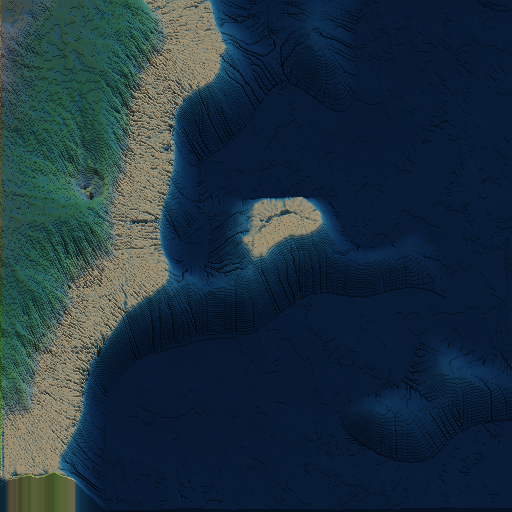
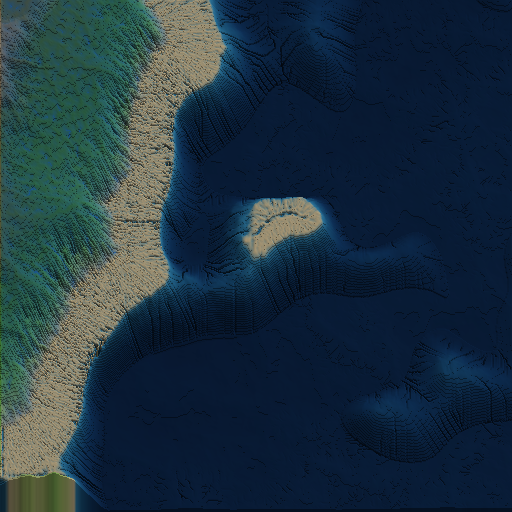
Add lake detection using priority-flood algorithm and river pools
- Implement proper depression filling using priority-flood algorithm
  to find terrain depressions where lakes would form
- Add river pool detection for flat areas with high flow accumulation
  (deltas, wetlands, floodplains where rivers naturally spread)
- Export separate river, lake, and combined water maps for debugging
- Lakes now blend with rivers in the final water visualization

Changed region(s): [[0.0, 0.0, 0.4375, 0.9375], [0.5, 0.375, 0.625, 0.4688]]

diff --git a/src/analysis/RiverMapper.cpp b/src/analysis/RiverMapper.cpp
@@ -133,42 +133,85 @@ void RiverMapper::findDepressions(const Heightmap& terrain,
 
     lakeMap.fill(0.0f);
 
-    // Find local minima (cells lower than all neighbors)
-    #ifdef WORLDGEN_USE_OPENMP
-    #pragma omp parallel for schedule(static)
-    #endif
-    for (size_t y = 1; y < h - 1; ++y) {
-        for (size_t x = 1; x < w - 1; ++x) {
+    // Use priority-flood algorithm to find depressions
+    // Start from edges and flood inward, marking cells that would be underwater
+
+    // Track which cells have been processed
+    std::vector<bool> processed(w * h, false);
+
+    // Track the "filled" height - water surface level at each cell
+    std::vector<float> filledHeight(w * h);
+    for (size_t i = 0; i < w * h; ++i) {
+        filledHeight[i] = data[i];
+    }
+
+    // Priority queue: process lowest cells first
+    // pair<height, index>
+    auto cmp = [](const std::pair<float, size_t>& a, const std::pair<float, size_t>& b) {
+        return a.first > b.first;  // Min-heap
+    };
+    std::priority_queue<std::pair<float, size_t>,
+                        std::vector<std::pair<float, size_t>>,
+                        decltype(cmp)> pq(cmp);
+
+    // Initialize with boundary cells (edges and ocean cells)
+    for (size_t y = 0; y < h; ++y) {
+        for (size_t x = 0; x < w; ++x) {
             size_t idx = y * w + x;
-            float center = data[idx];
 
-            if (center < m_config.seaLevel) continue;  // Skip ocean
+            // Add boundary cells and ocean cells to queue
+            bool isBoundary = (x == 0 || x == w - 1 || y == 0 || y == h - 1);
+            bool isOcean = data[idx] < m_config.seaLevel;
 
-            bool isMin = true;
-            float minNeighbor = center;
+            if (isBoundary || isOcean) {
+                pq.push({data[idx], idx});
+                processed[idx] = true;
+            }
+        }
+    }
 
-            for (int d = 0; d < 8; ++d) {
-                int nx = static_cast<int>(x) + DX[d];
-                int ny = static_cast<int>(y) + DY[d];
-                float nh = data[ny * w + nx];
+    // Process cells from lowest to highest
+    while (!pq.empty()) {
+        auto [height, idx] = pq.top();
+        pq.pop();
 
-                if (nh < center) {
-                    isMin = false;
-                    break;
-                }
-                minNeighbor = std::min(minNeighbor, nh);
+        size_t x = idx % w;
+        size_t y = idx / w;
+
+        // Check all 8 neighbors
+        for (int d = 0; d < 8; ++d) {
+            int nx = static_cast<int>(x) + DX[d];
+            int ny = static_cast<int>(y) + DY[d];
+
+            if (nx < 0 || nx >= static_cast<int>(w) ||
+                ny < 0 || ny >= static_cast<int>(h)) {
+                continue;
             }
 
-            if (isMin) {
-                // Depression depth = height to overflow
-                float lowestNeighbor = 1e9f;
-                for (int d = 0; d < 8; ++d) {
-                    int nx = static_cast<int>(x) + DX[d];
-                    int ny = static_cast<int>(y) + DY[d];
-                    lowestNeighbor = std::min(lowestNeighbor, data[ny * w + nx]);
-                }
-                lake[idx] = lowestNeighbor - center;
+            size_t nidx = ny * w + nx;
+            if (processed[nidx]) continue;
+
+            processed[nidx] = true;
+
+            float neighborHeight = data[nidx];
+
+            // If neighbor is lower than current water level, it's in a depression
+            if (neighborHeight < filledHeight[idx]) {
+                filledHeight[nidx] = filledHeight[idx];
+                // Lake depth = water surface - ground
+                lake[nidx] = filledHeight[idx] - neighborHeight;
+            } else {
+                filledHeight[nidx] = neighborHeight;
             }
+
+            pq.push({filledHeight[nidx], nidx});
+        }
+    }
+
+    // Only keep lakes above sea level (not ocean)
+    for (size_t i = 0; i < w * h; ++i) {
+        if (data[i] < m_config.seaLevel) {
+            lake[i] = 0.0f;
         }
     }
 }
@@ -280,7 +323,64 @@ std::unique_ptr<Heightmap> RiverMapper::generateLakeMap(const Heightmap& terrain
     const size_t h = terrain.height();
 
     auto lakeMap = std::make_unique<Heightmap>(w, h);
+
+    // First find true depressions
     findDepressions(terrain, *lakeMap);
+
+    // Also find "river pools" - flat areas with high flow accumulation
+    // These are places where rivers would naturally spread out: deltas, wetlands, floodplains
+
+    std::vector<int> flowDir(w * h);
+    Heightmap flowAcc(w, h);
+    calculateFlowDirections(terrain, flowDir);
+    calculateFlowAccumulation(terrain, flowDir, flowAcc);
+
+    const float* heightData = terrain.data();
+    const float* flowData = flowAcc.data();
+    float* lakeData = lakeMap->data();
+
+    float maxFlow = flowAcc.max();
+    if (maxFlow < 1.0f) maxFlow = 1.0f;
+
+    // High flow threshold for forming pools (top 1% of flow)
+    float poolFlowThreshold = maxFlow * 0.01f;
+
+    #ifdef WORLDGEN_USE_OPENMP
+    #pragma omp parallel for schedule(static)
+    #endif
+    for (size_t y = 2; y < h - 2; ++y) {
+        for (size_t x = 2; x < w - 2; ++x) {
+            size_t idx = y * w + x;
+
+            if (heightData[idx] < m_config.seaLevel) continue;  // Skip ocean
+
+            float flow = flowData[idx];
+            if (flow < poolFlowThreshold) continue;
+
+            // Calculate local gradient (steepness)
+            float centerH = heightData[idx];
+            float gradient = 0.0f;
+            for (int d = 0; d < 8; ++d) {
+                int nx = static_cast<int>(x) + DX[d];
+                int ny = static_cast<int>(y) + DY[d];
+                float dh = std::abs(heightData[ny * w + nx] - centerH) / DIST[d];
+                gradient = std::max(gradient, dh);
+            }
+
+            // Low gradient + high flow = river pool/wetland
+            // Gradient threshold: flatter = more likely to pool
+            if (gradient < 0.02f) {
+                float flowIntensity = (flow - poolFlowThreshold) / (maxFlow - poolFlowThreshold);
+                float flatness = 1.0f - (gradient / 0.02f);
+
+                // Pool intensity based on flow and flatness
+                float poolIntensity = flowIntensity * flatness * 0.5f;
+
+                // Add to existing lake data (don't overwrite depressions)
+                lakeData[idx] = std::max(lakeData[idx], poolIntensity);
+            }
+        }
+    }
 
     return lakeMap;
 }

diff --git a/src/main.cpp b/src/main.cpp
@@ -153,10 +153,15 @@ int runHeadless(int steps, int exportInterval, int seed, int size) {
     std::cout << "Exported: simulation_final.png" << std::endl;
 
     // Export standalone river map (2D grayscale - rivers only, no terrain)
-    std::cout << "Generating standalone river map..." << std::endl;
-    auto finalRiverMap = riverMapper.generateWaterMap(*terrain.height);
+    std::cout << "Generating standalone water maps..." << std::endl;
+    auto finalRiverMap = riverMapper.generateRiverMap(*terrain.height);
+    auto finalLakeMap = riverMapper.generateLakeMap(*terrain.height);
+    auto finalWaterMap = riverMapper.generateWaterMap(*terrain.height);
+
     exportHeightmapToPNG(*finalRiverMap, "river_map_2d.png");
-    std::cout << "Exported: river_map_2d.png (2D river map - white=water, black=land)" << std::endl;
+    exportHeightmapToPNG(*finalLakeMap, "lake_map_2d.png");
+    exportHeightmapToPNG(*finalWaterMap, "water_map_2d.png");
+    std::cout << "Exported: river_map_2d.png, lake_map_2d.png, water_map_2d.png" << std::endl;
 
     return 0;
 }
